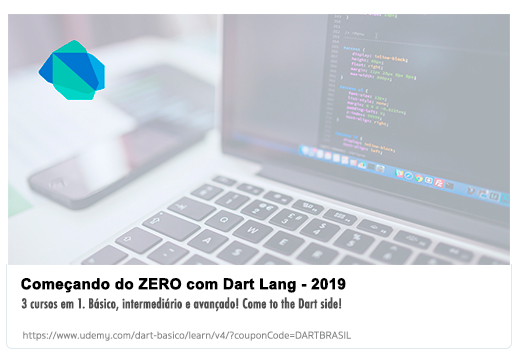
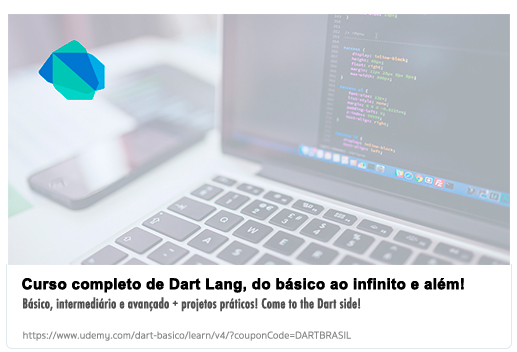
deploy

Changed region(s): [[0.0309, 0.7812, 0.8975, 0.9062]]

diff --git a/_posts/2019-01-26-dart-cursos.md b/_posts/2019-01-26-dart-cursos.md
@@ -14,7 +14,7 @@ comments: true
 [![Começando do ZERO com Dart Lang - 2019](/assets/img/curso-dart.jpg)](https://www.udemy.com/dart-basico/?couponCode=DARTBRASIL){:target="_blank"}
 
 
-### Começando do ZERO com Dart Lang - 2019
+### Curso completo de Dart Lang, do básico ao infinito e além!
 Curso completo de Dart Lang em português focado para iniciantes, intermediários e avançados. O intuito do curso é ensinar os conceitos necessários para iniciar o desenvolvimento na nossa linguagem queridinha! 
 
 Este [link](https://www.udemy.com/dart-basico/?couponCode=DARTBRASIL){:target="_blank"} está com um cupom de desconto dedicado para os leitores aqui do Dart Brasil! :D

diff --git a/_posts/2019-01-25-flutter-artigos.md b/_posts/2019-01-25-flutter-artigos.md
@@ -12,4 +12,5 @@ comments: true
 ---
 
 
-# Em breve!
+**Diego Botelho** - [Google anuncia o Flutter 1.0 mais um passo rumo ao “Universo Fuschia”
+](https://imasters.com.br/android/google-anuncia-o-flutter-1-0-mais-um-passo-rumo-ao-universo-fuschia){:target="_blank"}
